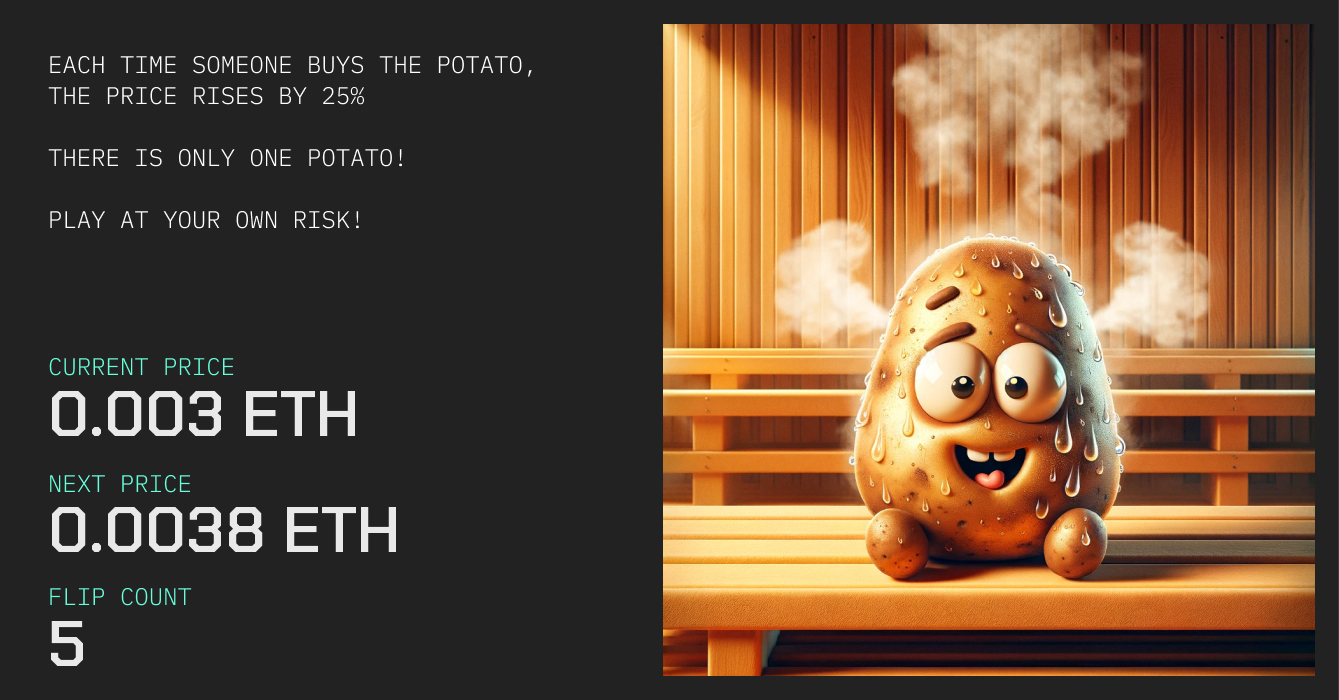
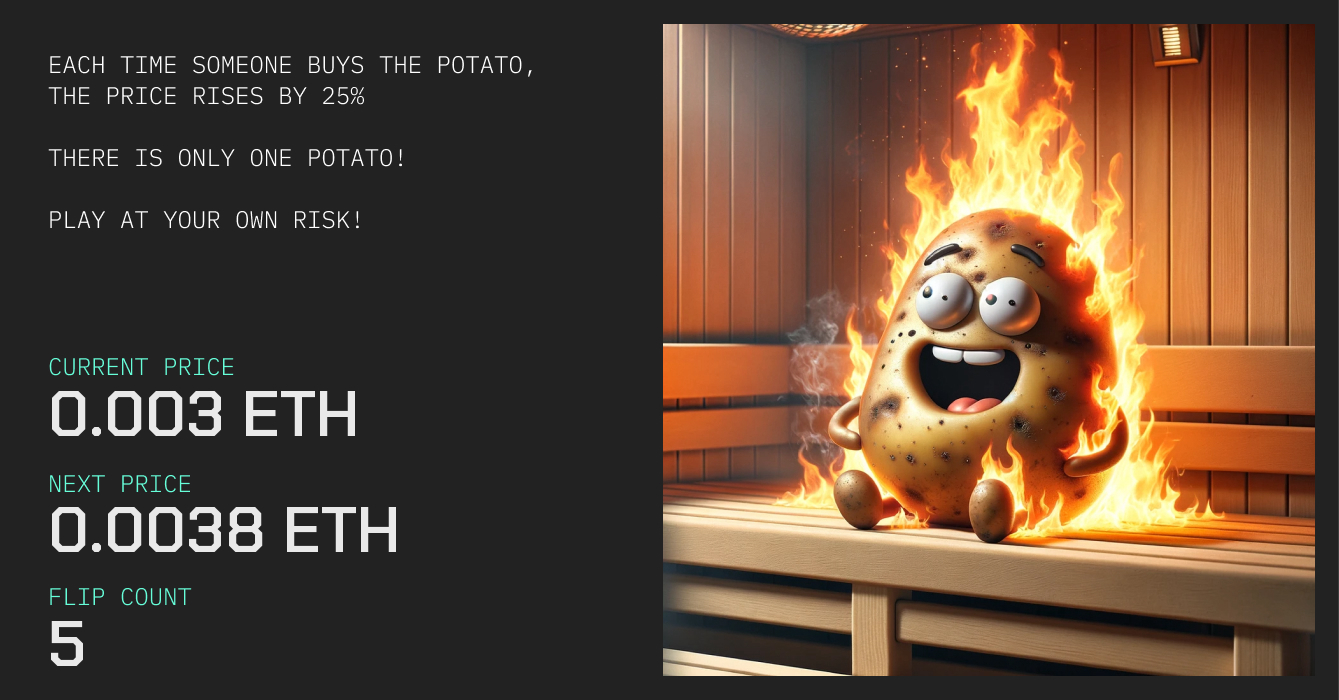
new images

diff --git a/app/page.tsx b/app/page.tsx
@@ -49,7 +49,7 @@ export default async function Page() {
       <meta name="fc:frame:image" content={`https://image.hot-potato.lol/get-potato?${timestamp}`} />
       <meta name="fc:frame:refresh_period" content="4"/>
       <meta name="fc:frame:post_url" content={`${NEXT_PUBLIC_URL}/api/aftertx`} />
-      <meta name="fc:frame:image:aspect_ratio" content="1:1" />
+      <meta name="fc:frame:image:aspect_ratio" content="1.91:1" />
       {/*
       <meta name="fc:frame:button:1" content={`Price: ${parseFloat(formatEther(currentPrice as bigint)).toFixed(3)} Ξ`} />
       <meta name="fc:frame:button:1:action" content="post" />

diff --git a/hot-potato-image-server/server.js b/hot-potato-image-server/server.js
@@ -53,7 +53,9 @@ app.get('/get-potato', async (req, res) => {
             await contract.read.FLIP_COUNT()
         ]);
 
-        var imageIndex = parseInt(parseInt(flipCount) / 5 + ""); // step every 5
+        var imageIndex = parseInt(parseInt(flipCount) / 5 + "")+1; // step every 5
+        var imageIndex = 5;
+
         if (imageIndex > 9) imageIndex = 9; // 9 is the last image
         const image = await Jimp.read(`./${imageIndex}.jpg`);
 

diff --git a/app/api/aftertx/route.tsx b/app/api/aftertx/route.tsx
@@ -53,7 +53,7 @@ async function getResponse(req: NextRequest): Promise<NextResponse> {
       ],
       image: {
         src: `https://image.hot-potato.lol/get-potato?${timestamp}`,
-        aspectRatio: '1:1',
+        aspectRatio: '1.91:1',
       },
       refreshPeriod: 4,
       /*

diff --git a/app/api/detail/route.tsx b/app/api/detail/route.tsx
@@ -49,7 +49,7 @@ async function getResponse(req: NextRequest): Promise<NextResponse> {
       ],
       image: {
         src: `https://image.hot-potato.lol/get-potato?${timestamp}`,
-        aspectRatio: '1:1',
+        aspectRatio: '1.91:1',
       },
       refreshPeriod: 4,
       /*
